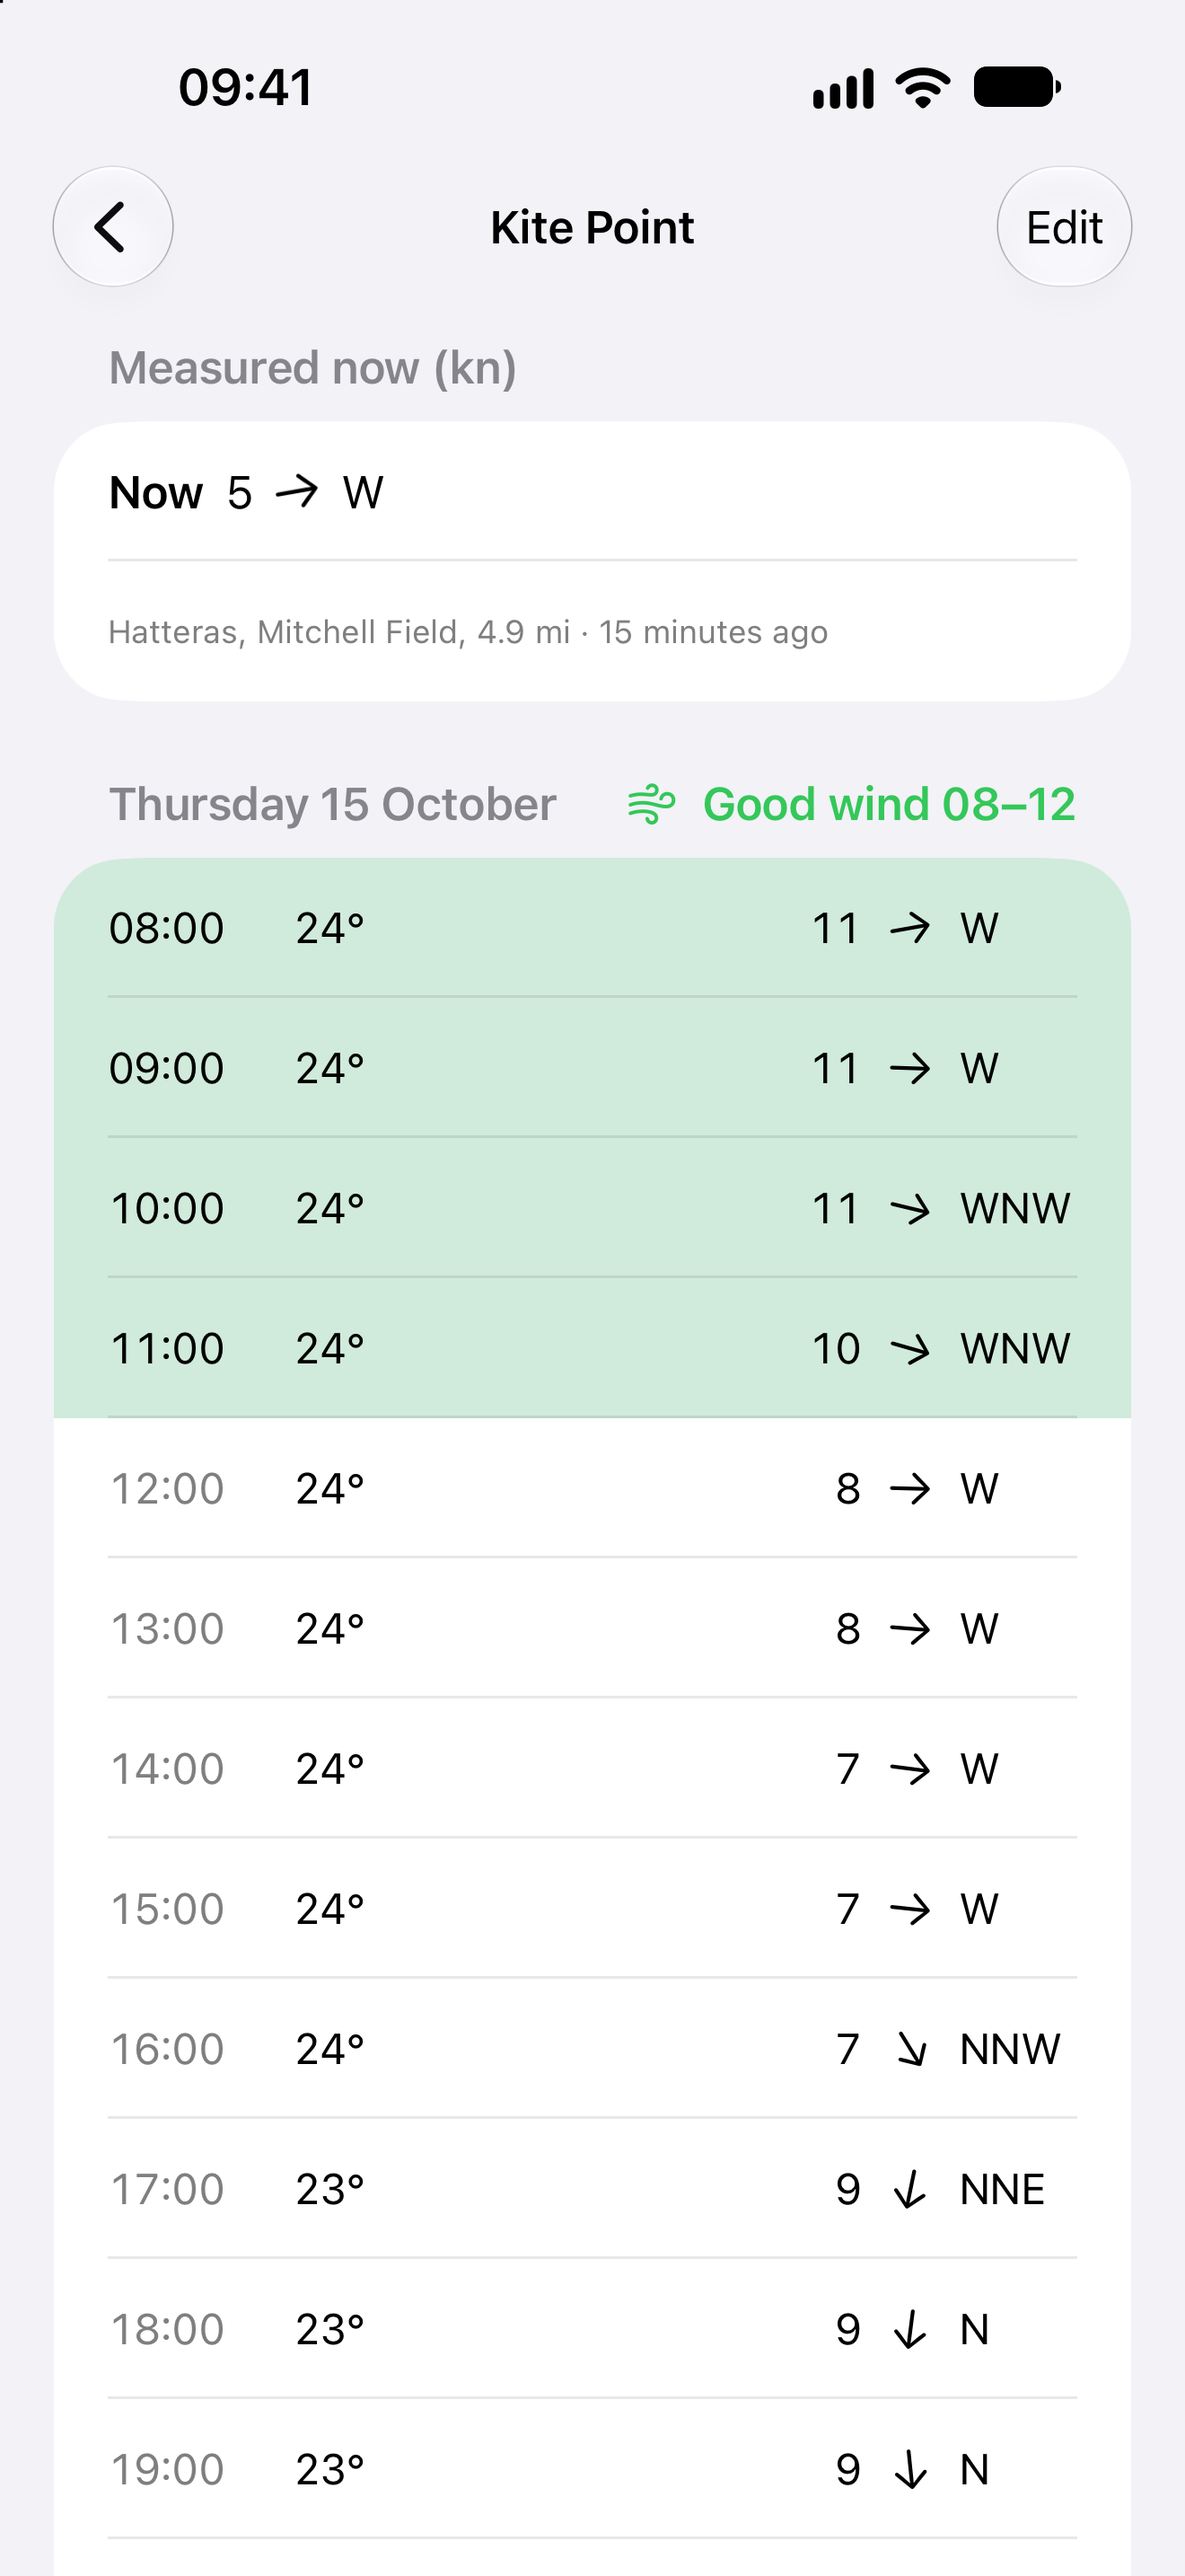
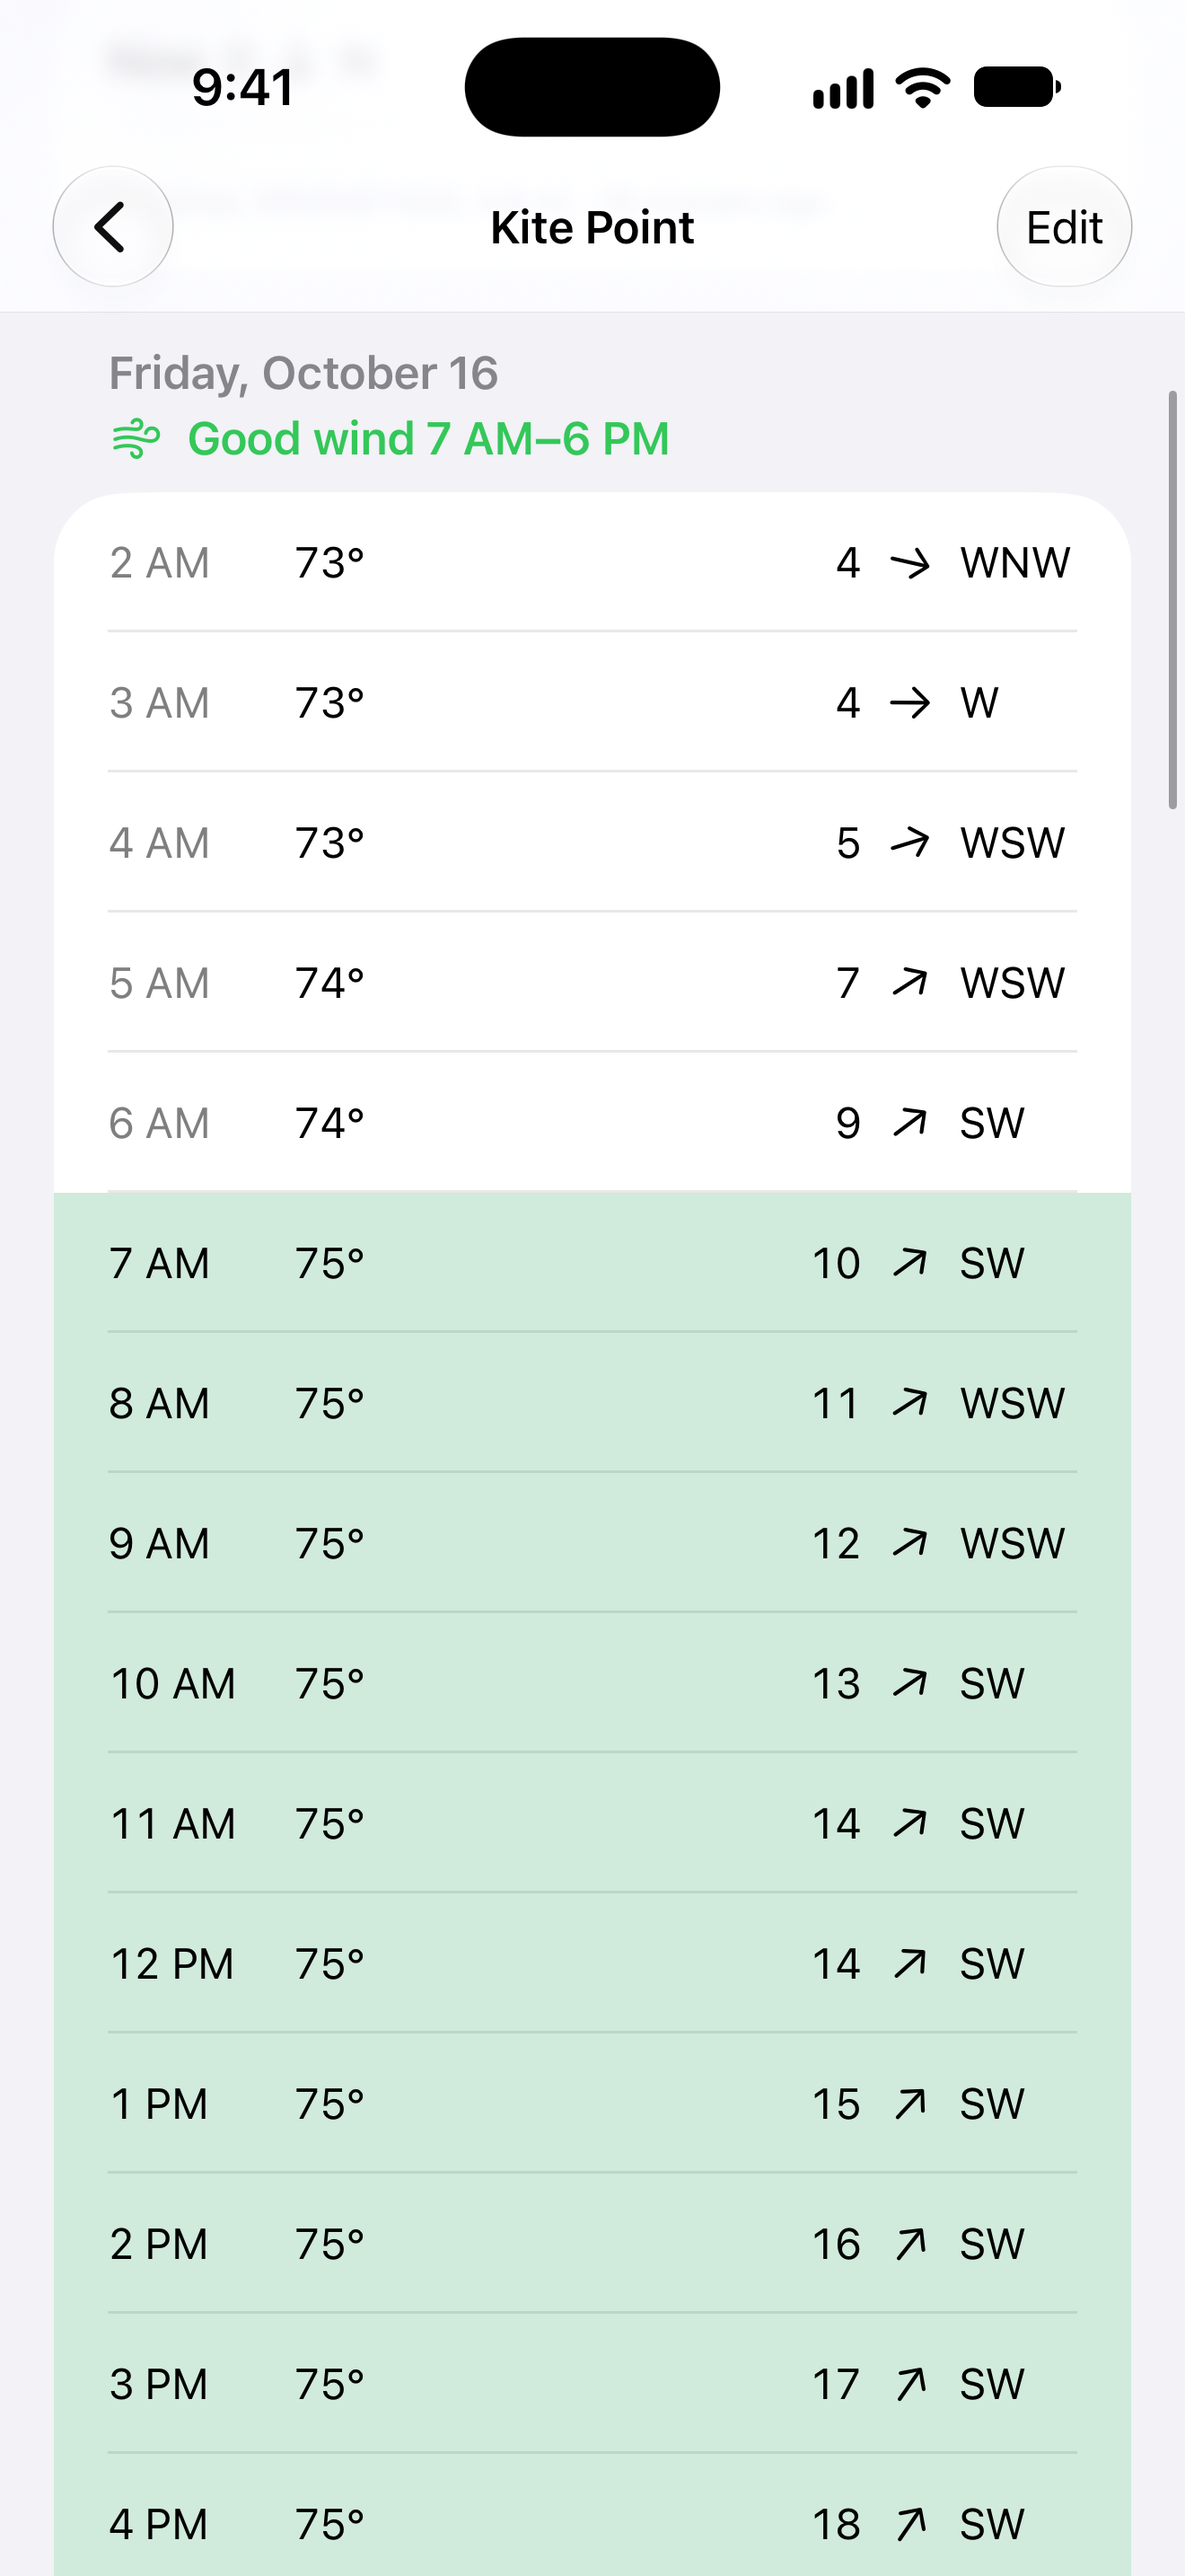
App Store screenshots retaken in US English (12-hour times, Thursday lock screen, three notifications, the top one enlarged in the frame); forecast day header puts the good hours under the date when they don't fit beside it

diff --git a/appstore/frame.swift b/appstore/frame.swift
@@ -2,17 +2,19 @@
 //   swift appstore/frame.swift
 // Reads appstore/screenshots/*.png (plain Simulator screenshots, 6.9-inch: 1320 × 2868) and writes the
 // framed versions, the same size, to appstore/framed/. Captions are the ones in appstore/listing-en.md.
+// A `zoom` (in the screenshot's pixels, from the top left) is drawn again, larger, on top of the phone: used to make
+// the notification readable at App Store thumbnail size.
 
 import AppKit
 import CoreText
 import Foundation
 
-let captions: [(file: String, caption: String)] = [
-    ("1-list", "Know when your spots are good"),
-    ("2-notification", "Get told when it's on"),
-    ("3-forecast", "See why, hour by hour"),
-    ("4-rules", "Your spot, your rules"),
-    ("5-add-spot", "Popular spots, or any spot in the world"),
+let captions: [(file: String, caption: String, zoom: CGRect?)] = [
+    ("1-list", "Know when your spots are good", nil),
+    ("2-notification", "Get told when it's on", CGRect(x: 62, y: 2052, width: 1196, height: 188)),
+    ("3-forecast", "See why, hour by hour", nil),
+    ("4-rules", "Your spot, your rules", nil),
+    ("5-add-spot", "Popular spots, or any spot in the world", nil),
 ]
 
 let width = 1320, height = 2868
@@ -38,7 +40,7 @@ let border: CGFloat = 20
 let screenRadius: CGFloat = 186 * scale
 let phoneTop: CGFloat = 560   // from the top; the caption sits in the space above
 
-func frame(_ name: String, _ caption: String) throws {
+func frame(_ name: String, _ caption: String, zoom: CGRect?) throws {
     let input = URL(fileURLWithPath: "appstore/screenshots/\(name).png")
     guard let source = CGImageSourceCreateWithURL(input as CFURL, nil),
           let shot = CGImageSourceCreateImageAtIndex(source, 0, nil) else { fatalError("Can't read \(input.path)") }
@@ -87,6 +89,22 @@ func frame(_ name: String, _ caption: String) throws {
     ctx.draw(shot, in: screenRect)
     ctx.restoreGState()
 
+    // Zoom: the part again at 92 % of full size (wider than the phone), centred where it sits on the phone.
+    if let zoom, let part = shot.cropping(to: zoom) {
+        let size = CGSize(width: zoom.width * 0.92, height: zoom.height * 0.92)
+        let centre = CGPoint(x: screenRect.minX + zoom.midX * scale, y: screenRect.maxY - zoom.midY * scale)
+        let rect = CGRect(x: W / 2 - size.width / 2, y: centre.y - size.height / 2, width: size.width, height: size.height)
+        let card = CGPath(roundedRect: rect, cornerWidth: 58, cornerHeight: 58, transform: nil)
+        ctx.saveGState()
+        ctx.setShadow(offset: CGSize(width: 0, height: -20), blur: 60, color: CGColor(red: 0, green: 0, blue: 0, alpha: 0.5))
+        ctx.addPath(card); ctx.setFillColor(bezel); ctx.fillPath()
+        ctx.restoreGState()
+        ctx.saveGState()
+        ctx.addPath(card); ctx.clip()
+        ctx.draw(part, in: rect)
+        ctx.restoreGState()
+    }
+
     let output = URL(fileURLWithPath: "appstore/framed/\(name).png")
     let dest = CGImageDestinationCreateWithURL(output as CFURL, "public.png" as CFString, 1, nil)!
     CGImageDestinationAddImage(dest, ctx.makeImage()!, nil)
@@ -95,4 +113,4 @@ func frame(_ name: String, _ caption: String) throws {
 }
 
 try FileManager.default.createDirectory(atPath: "appstore/framed", withIntermediateDirectories: true)
-for (file, caption) in captions { try frame(file, caption) }
+for (file, caption, zoom) in captions { try frame(file, caption, zoom: zoom) }

diff --git a/ios/Kookout/Views/SpotDetailView.swift b/ios/Kookout/Views/SpotDetailView.swift
@@ -80,16 +80,28 @@ private struct DayHeader: View {
     let spot: Spot
 
     var body: some View {
-        HStack {
-            Text(title)
-            Spacer()
-            if let first = good.first, let last = good.last {
-                Label("\(spot.sport == .surf ? String(localized: "Good surf") : String(localized: "Good wind")) " +
-                      Units.hours(first.time, last.end, zone: spot.timeZone),
-                      systemImage: spot.sport.symbol)
-                    .foregroundStyle(.green)
-                    .textCase(nil)
+        // Side by side when it fits on one line; otherwise the good hours go under the date, so a range like
+        // "7 AM–6 PM" never breaks in the middle (12-hour clocks, large text).
+        ViewThatFits(in: .horizontal) {
+            HStack {
+                Text(title).fixedSize()
+                Spacer()
+                goodLabel.fixedSize()
             }
+            VStack(alignment: .leading, spacing: 4) {
+                Text(title)
+                goodLabel
+            }
+        }
+    }
+
+    @ViewBuilder private var goodLabel: some View {
+        if let first = good.first, let last = good.last {
+            Label("\(spot.sport == .surf ? String(localized: "Good surf") : String(localized: "Good wind")) " +
+                  Units.hours(first.time, last.end, zone: spot.timeZone),
+                  systemImage: spot.sport.symbol)
+                .foregroundStyle(.green)
+                .textCase(nil)
         }
     }
 }
